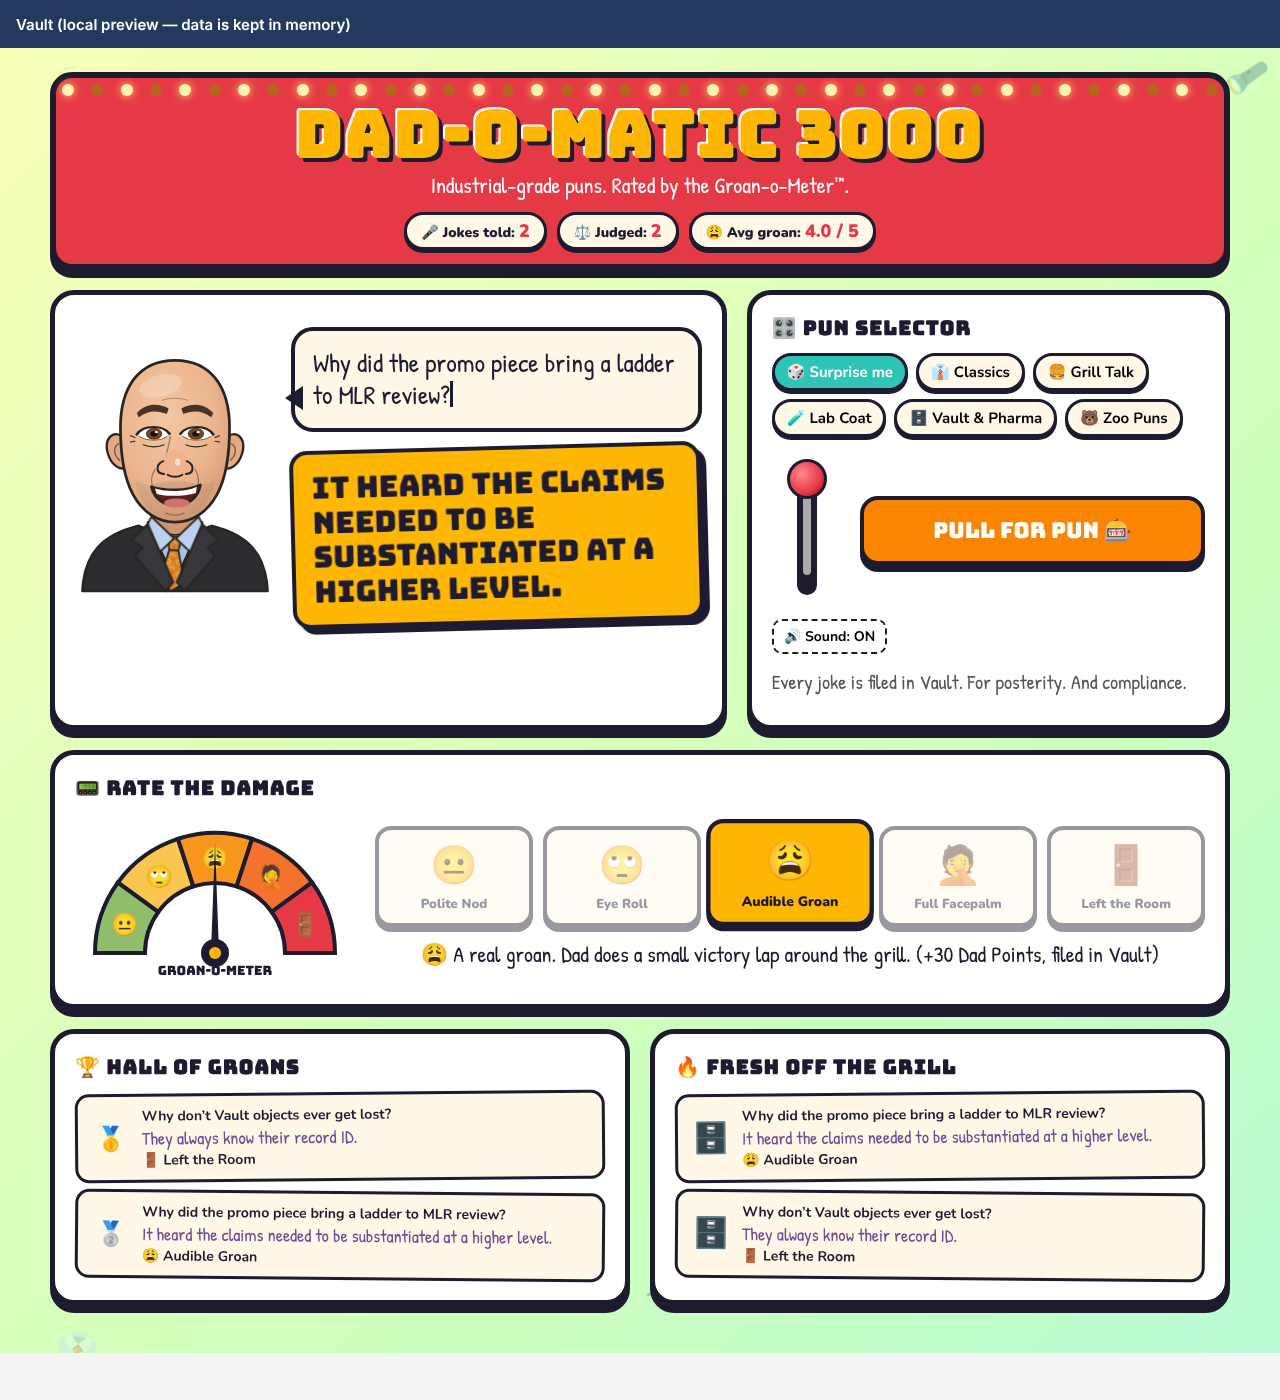
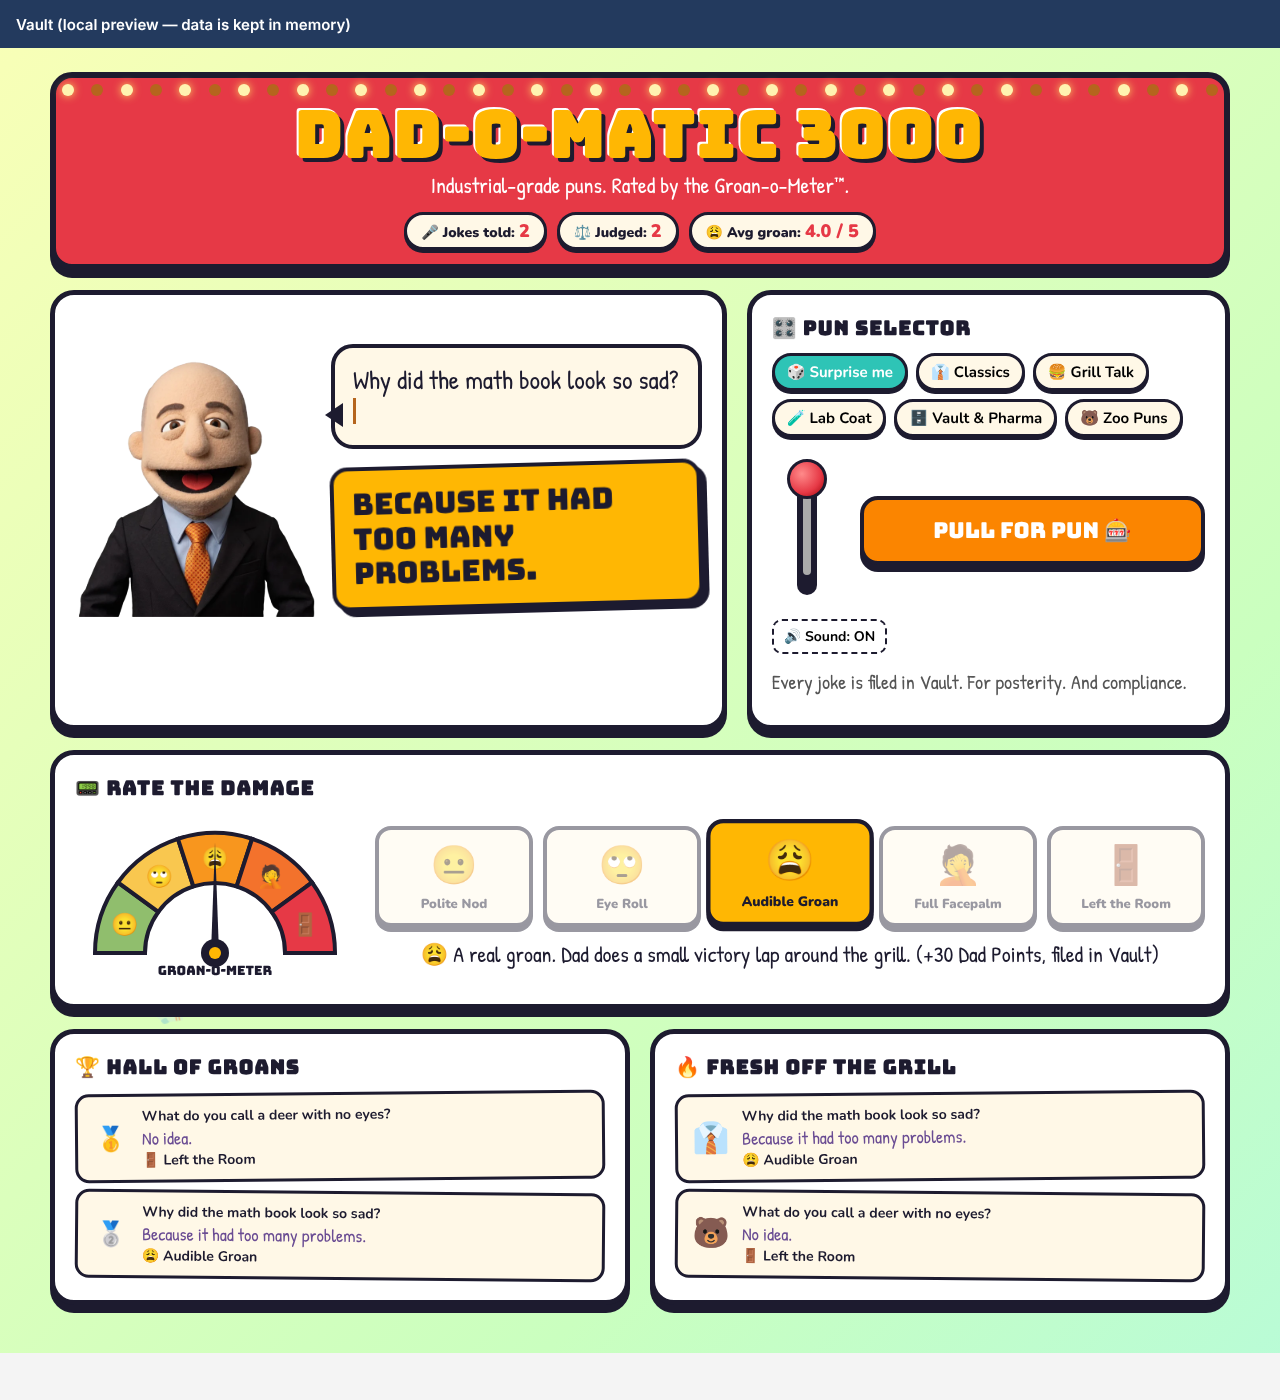
Use the puppet photos for Dad: rest, talk, grin and blink frames
Background keyed out by scripts/cutout.py and inlined as WebP data URLs.

Claude-Session: https://claude.ai/code/session_018wFN8Ge7w6gaALsTw1UWXu

diff --git a/client/src/dad.js b/client/src/dad.js
@@ -1,115 +1,24 @@
-// Dad, drawn in SVG in an outlined cartoon style. Classes on the parts are animated from styles.css.
-const INK = '#2a2420';
-const line = `stroke="${INK}" stroke-linecap="round" stroke-linejoin="round"`;
+// Dad, a felt puppet photographed in four expressions. The frames are identical apart from
+// the face, so they are stacked and swapped by styles.css. Inlined as data URLs by esbuild.
+import rest from '../assets/dad-rest.webp';
+import talk from '../assets/dad-talk.webp';
+import grin from '../assets/dad-grin.webp';
+import blink from '../assets/dad-blink.webp';
 
-export const DAD_SVG = `
-<svg class="dad" viewBox="0 0 220 262" aria-hidden="true">
-  <defs>
-    <radialGradient id="djg-skin" cx="42%" cy="34%" r="70%">
-      <stop offset="0" stop-color="#f5c7a2"/>
-      <stop offset=".65" stop-color="#ebb48d"/>
-      <stop offset="1" stop-color="#d69a74"/>
-    </radialGradient>
-    <pattern id="djg-tie" width="14" height="14" patternUnits="userSpaceOnUse">
-      <rect width="14" height="14" fill="#d9822a"/>
-      <path d="M2 7 C2 2 9 2 9 6 C9 9 5 9 5 7" stroke="#f4b64e" stroke-width="1.4" fill="none"/>
-      <path d="M8 13 C10 10 14 11 13 14" stroke="#f4b64e" stroke-width="1.2" fill="none"/>
-      <circle cx="12" cy="3" r="1" fill="#a9541c"/>
-    </pattern>
-    <clipPath id="djg-eye-l"><path d="M69 90 C75 76 97 76 103 90 C97 101 75 101 69 90 Z"/></clipPath>
-    <clipPath id="djg-eye-r"><path d="M151 90 C145 76 123 76 117 90 C123 101 145 101 151 90 Z"/></clipPath>
-  </defs>
+const FRAMES = { rest, talk, grin, blink };
 
-  <g class="dad-body">
-    <path d="M8 262 C10 220 30 200 70 190 L110 206 L150 190 C190 200 210 220 212 262 Z" fill="#2c2c30" ${line} stroke-width="2.5"/>
-    <path d="M80 186 L110 250 L140 186 Z" fill="#a9c0e6" ${line} stroke-width="2"/>
-    <path d="M86 160 L86 194 C98 202 122 202 134 194 L134 160 Z" fill="#d39570" ${line} stroke-width="2"/>
-  </g>
-
-  <g class="dad-head">
-    <path d="M53 92 C40 84 32 96 36 110 C40 124 50 130 58 126 Z" fill="#e5a983" ${line} stroke-width="2.5"/>
-    <path d="M48 100 C42 103 42 112 49 118" fill="none" ${line} stroke-width="1.5" opacity=".6"/>
-    <path d="M167 92 C180 84 188 96 184 110 C180 124 170 130 162 126 Z" fill="#e5a983" ${line} stroke-width="2.5"/>
-    <path d="M172 100 C178 103 178 112 171 118" fill="none" ${line} stroke-width="1.5" opacity=".6"/>
-
-    <path d="M110 8 C150 8 170 38 170 82 C170 112 166 138 156 156 C146 174 130 186 110 186 C90 186 74 174 64 156 C54 138 50 112 50 82 C50 38 70 8 110 8 Z" fill="url(#djg-skin)" ${line} stroke-width="3"/>
-    <ellipse cx="94" cy="36" rx="24" ry="12" fill="#fff" opacity=".22" transform="rotate(-15 94 36)"/>
-    <path d="M96 52 C104 49 116 49 124 52" fill="none" ${line} stroke-width="1.2" opacity=".35"/>
-
-    <path d="M66 140 C72 170 92 186 110 186 C128 186 148 170 154 140 C140 150 128 140 110 142 C92 140 80 150 66 140 Z" fill="#7d6a5f" opacity=".14"/>
-    <ellipse cx="110" cy="145" rx="22" ry="5" fill="#7d6a5f" opacity=".08"/>
-
-    <g class="dad-brows" fill="#4a3428">
-      <path d="M68 73 C78 62 92 62 103 68 L101 74 C90 70 80 70 70 78 Z"/>
-      <path d="M152 73 C142 62 128 62 117 68 L119 74 C130 70 140 70 150 78 Z"/>
-    </g>
-
-    <g class="dad-eye">
-      <path d="M69 90 C75 76 97 76 103 90 C97 101 75 101 69 90 Z" fill="#fff"/>
-      <g clip-path="url(#djg-eye-l)">
-        <circle cx="87" cy="89" r="8.5" fill="#7b4320" stroke="${INK}" stroke-width="1"/>
-        <circle cx="87" cy="89" r="4" fill="#140d0a"/>
-        <circle cx="89.5" cy="86.5" r="1.7" fill="#fff"/>
-      </g>
-      <path d="M68 90 C75 75 97 75 104 89" fill="none" ${line} stroke-width="3.2"/>
-      <path d="M71 93 C78 100 94 101 101 93" fill="none" ${line} stroke-width="1.2" opacity=".7"/>
-    </g>
-    <g class="dad-eye">
-      <path d="M151 90 C145 76 123 76 117 90 C123 101 145 101 151 90 Z" fill="#fff"/>
-      <g clip-path="url(#djg-eye-r)">
-        <circle cx="133" cy="89" r="8.5" fill="#7b4320" stroke="${INK}" stroke-width="1"/>
-        <circle cx="133" cy="89" r="4" fill="#140d0a"/>
-        <circle cx="135.5" cy="86.5" r="1.7" fill="#fff"/>
-      </g>
-      <path d="M152 90 C145 75 123 75 116 89" fill="none" ${line} stroke-width="3.2"/>
-      <path d="M149 93 C142 100 126 101 119 93" fill="none" ${line} stroke-width="1.2" opacity=".7"/>
-    </g>
-    <g class="dad-crinkle" fill="none" ${line} stroke-width="1.2">
-      <path d="M75 101 C82 104 92 104 98 101"/><path d="M122 101 C128 104 138 104 145 101"/>
-      <path d="M66 93 L61 91"/><path d="M66 97 L61 98"/>
-      <path d="M154 93 L159 91"/><path d="M154 97 L159 98"/>
-    </g>
-
-    <path d="M105 92 C103 103 101 110 99 116" fill="none" ${line} stroke-width="1.4" opacity=".45"/>
-    <path d="M98 114 C90 116 88 128 96 132 C100 136 120 136 124 132 C132 128 130 116 122 114 C118 104 102 104 98 114 Z" fill="#eeb48d"/>
-    <ellipse cx="113" cy="120" rx="3" ry="4" fill="#fff" opacity=".6"/>
-    <g fill="none" ${line} stroke-width="2.2">
-      <path d="M97 119 C88 123 89 133 98 133"/>
-      <path d="M123 119 C132 123 131 133 122 133"/>
-      <path d="M102 134 C106 137 114 137 118 134"/>
-    </g>
-    <g fill="none" ${line} stroke-width="1.3" opacity=".45">
-      <path d="M88 128 C82 138 84 147 88 152"/>
-      <path d="M132 128 C138 138 136 147 132 151"/>
-      <path d="M100 176 C106 179 114 179 120 176"/>
-    </g>
-
-    <g class="dad-mouth-smile">
-      <path d="M98 157 C106 162 116 162 124 156" fill="none" stroke="#c9786a" stroke-width="3" stroke-linecap="round"/>
-      <path d="M90 151 C100 159 120 159 132 149" fill="none" ${line} stroke-width="3"/>
-      <path d="M88 149 L91 154" fill="none" ${line} stroke-width="1.6"/>
-    </g>
-    <g class="dad-mouth-open">
-      <path d="M94 150 C102 147 120 147 128 150 C124 166 100 166 94 150 Z" fill="#5a1c1c" ${line} stroke-width="2.5"/>
-      <ellipse cx="111" cy="159" rx="9" ry="3.5" fill="#d0716b"/>
-    </g>
-    <g class="dad-mouth-grin">
-      <path d="M84 147 C100 152 122 152 138 145 C134 174 90 176 84 147 Z" fill="#5a1c1c" ${line} stroke-width="2.8"/>
-      <path d="M88 149 C100 153 122 153 134 147 L133 154 C120 158 100 158 90 155 Z" fill="#fff"/>
-      <ellipse cx="112" cy="165" rx="14" ry="5" fill="#d0716b"/>
-    </g>
-  </g>
-
-  <g class="dad-tie">
-    <path d="M102 202 L118 202 L115 217 L105 217 Z" fill="url(#djg-tie)" ${line} stroke-width="2"/>
-    <path d="M105 217 L115 217 L124 252 L110 262 L96 252 Z" fill="url(#djg-tie)" ${line} stroke-width="2"/>
-  </g>
-  <g class="dad-collar" fill="#bcd0ef" ${line} stroke-width="2">
-    <path d="M84 180 L109 204 L93 219 L77 194 Z"/>
-    <path d="M136 180 L111 204 L127 219 L143 194 Z"/>
-  </g>
-  <g fill="#36363b" ${line} stroke-width="2.2">
-    <path d="M80 188 L62 206 L74 214 L66 224 L100 262 L108 252 Z"/>
-    <path d="M140 188 L158 206 L146 214 L154 224 L120 262 L112 252 Z"/>
-  </g>
-</svg>`;
+export function createDad() {
+  const dad = document.createElement('div');
+  dad.className = 'dad';
+  dad.setAttribute('role', 'img');
+  dad.setAttribute('aria-label', 'Dad, a bald puppet in a suit and orange tie');
+  for (const [name, src] of Object.entries(FRAMES)) {
+    const img = document.createElement('img');
+    img.className = `dad-${name}`;
+    img.src = src;
+    img.alt = '';
+    img.draggable = false;
+    dad.appendChild(img);
+  }
+  return dad;
+}

diff --git a/client/src/styles.css b/client/src/styles.css
@@ -72,31 +72,22 @@
   box-shadow: 0 8px 0 var(--ink);
 }
 
-.djg-theatre { display: grid; grid-template-columns: 200px 1fr; gap: 16px; align-items: center; min-height: 320px; position: relative; }
+.djg-theatre { display: grid; grid-template-columns: 240px 1fr; gap: 16px; align-items: center; min-height: 320px; position: relative; }
 @media (max-width: 560px) { .djg-theatre { grid-template-columns: 1fr; justify-items: center; } }
 
-.dad { width: 200px; height: auto; overflow: visible; }
-.dad-head { transform-origin: 110px 185px; animation: djg-bob 2.4s ease-in-out infinite; }
-@keyframes djg-bob { 0%, 100% { transform: rotate(-2deg); } 50% { transform: rotate(2deg) translateY(-3px); } }
-.dad-eye { transform-box: fill-box; transform-origin: center; animation: djg-blink-eye 5s infinite; }
-@keyframes djg-blink-eye { 0%, 95%, 100% { transform: scaleY(1); } 97.5% { transform: scaleY(.1); } }
-/* Mouth: smirk at rest, flaps open while Dad talks, big grin with crinkled eyes on the punchline. */
-.dad-mouth-open, .dad-mouth-grin { opacity: 0; }
-.dad-crinkle { opacity: .5; transition: opacity .2s; }
-.djg.is-thinking .dad-mouth-open { animation: djg-flap .28s steps(1) infinite; }
-.djg.is-thinking .dad-mouth-smile { animation: djg-flap .28s steps(1) infinite reverse; }
+.dad { position: relative; width: 240px; aspect-ratio: 600 / 712; transform-origin: 50% 100%; animation: djg-bob 2.4s ease-in-out infinite; }
+.dad img { position: absolute; inset: 0; width: 100%; height: 100%; pointer-events: none; user-select: none; }
+@keyframes djg-bob { 0%, 100% { transform: rotate(-1.5deg); } 50% { transform: rotate(1.5deg) translateY(-3px); } }
+/* Frames stacked over the resting pose: talk flaps while the setup types, grin on the punchline, blink now and then. */
+.dad-talk, .dad-grin { opacity: 0; }
+.dad-blink { opacity: 0; animation: djg-blink-eye 5s steps(1) infinite; }
+@keyframes djg-blink-eye { 0%, 96% { opacity: 0; } 97% { opacity: 1; } 99% { opacity: 0; } }
+.djg.is-thinking .dad-talk { animation: djg-flap .26s steps(1) infinite; }
 @keyframes djg-flap { 0% { opacity: 0; } 50% { opacity: 1; } }
-.djg.is-thinking .dad-brows { animation: djg-brows .35s ease-in-out infinite alternate; }
-@keyframes djg-brows { to { transform: translateY(-6px); } }
-.djg.is-punchline .dad-mouth-smile { opacity: 0; }
-.djg.is-punchline .dad-mouth-grin { opacity: 1; }
-.djg.is-punchline .dad-crinkle { opacity: 1; }
-.djg.is-punchline .dad-eye { animation: none; transform: scaleY(.72); }
-.djg.is-punchline .dad-brows { transform: translateY(-7px); transition: transform .2s; }
-.djg.is-punchline .dad-head { animation: djg-laugh .15s ease-in-out 8 alternate; }
-@keyframes djg-laugh { to { transform: translateY(-6px) rotate(3deg); } }
-.dad-tie { transform-origin: 110px 198px; animation: djg-tie 3s ease-in-out infinite; }
-@keyframes djg-tie { 0%, 100% { transform: rotate(4deg); } 50% { transform: rotate(-4deg); } }
+.djg.is-punchline .dad-grin { opacity: 1; }
+.djg.is-punchline .dad-blink { animation: none; }
+.djg.is-punchline .dad { animation: djg-laugh .15s ease-in-out 8 alternate; }
+@keyframes djg-laugh { to { transform: translateY(-6px) rotate(2deg); } }
 
 .djg-bubbles { display: flex; flex-direction: column; gap: 14px; }
 .djg-bubble {

diff --git a/client/src/index.js b/client/src/index.js
@@ -1,6 +1,6 @@
 import { definePage } from '@veeva/vault';
 import css from './styles.css';
-import { DAD_SVG } from './dad.js';
+import { createDad } from './dad.js';
 import { CATEGORIES, GROAN_LEVELS, generateJoke, levelByKey, randomDadLine } from './jokes.js';
 import { drumroll, groan, rimshot } from './sound.js';
 import { loadHallOfGroans, rateJoke, saveJoke } from './vault.js';
@@ -140,8 +140,7 @@ export default definePage(({ element }) => {
   const drum = el('div', { class: 'djg-drumroll', text: '🥁 drrrrrrrrrrrr...' });
   const punch = el('div', { class: 'djg-punch' });
   const badum = el('div', { class: 'djg-badum', text: 'BA-DUM-TSS!' });
-  const dadHolder = el('div');
-  dadHolder.innerHTML = DAD_SVG;
+  const dadHolder = createDad();
   const theatre = el(
     'section',
     { class: 'djg-panel' },

diff --git a/scripts/cutout.py b/scripts/cutout.py
@@ -1,0 +1,46 @@
+"""Remove the baked-in checkerboard from the Dad photos and export web-ready WebPs.
+
+    python3 scripts/cutout.py <rest.jpg> <talk.jpg> <grin.jpg> <blink.jpg>
+
+The background is keyed out as the neutral, light region connected to the image border,
+so light parts of Dad (the blue shirt, eye whites) are kept.
+"""
+import sys
+import numpy as np
+from PIL import Image, ImageFilter
+from scipy import ndimage
+
+NAMES = ['dad-rest', 'dad-talk', 'dad-grin', 'dad-blink']
+WIDTH = 600
+
+
+def cutout(path):
+    rgb = np.asarray(Image.open(path).convert('RGB')).astype(np.int16)
+    spread = rgb.max(axis=2) - rgb.min(axis=2)
+    light = rgb.min(axis=2)
+    bg_like = (spread < 22) & (light > 165)
+    labels, _ = ndimage.label(bg_like)
+    border = np.unique(np.concatenate([labels[0], labels[-1], labels[:, 0], labels[:, -1]]))
+    bg = np.isin(labels, border[border > 0])
+    # Fill pinholes in Dad, pull the edge in past the JPEG fringe, then soften it.
+    fg = ndimage.binary_fill_holes(~bg)
+    fg = ndimage.binary_opening(fg, iterations=2)
+    fg = ndimage.binary_erosion(fg, iterations=2)
+    # Keep only the largest blob (drops stray smudges in the background).
+    lab, n = ndimage.label(fg)
+    if n > 1:
+        sizes = ndimage.sum(fg, lab, range(1, n + 1))
+        fg = lab == (1 + int(np.argmax(sizes)))
+    alpha = Image.fromarray((fg * 255).astype(np.uint8)).filter(ImageFilter.GaussianBlur(1.6))
+    im = Image.open(path).convert('RGB')
+    im.putalpha(alpha)
+    return im
+
+
+for name, path in zip(NAMES, sys.argv[1:5]):
+    im = cutout(path)
+    h = round(im.height * WIDTH / im.width)
+    im = im.resize((WIDTH, h), Image.LANCZOS)
+    out = f'client/assets/{name}.webp'
+    im.save(out, 'WEBP', quality=86, method=6)
+    print(out, im.size)

diff --git a/README.md b/README.md
@@ -6,7 +6,7 @@ A Veeva Vault **Custom Page** that generates dad jokes, stores every joke it tel
 
 ## What it does
 
-- **Pull the lever.** Dad types out the setup, a drum roll plays, then the punchline slams in with a *BA-DUM-TSS!*, a rimshot and emoji confetti. Dad winks and wiggles his mustache.
+- **Pull the lever.** Dad, a felt puppet, flaps his mouth while the setup types out, a drum roll plays, then the punchline slams in with a *BA-DUM-TSS!*, a rimshot and emoji confetti while Dad laughs. He blinks every few seconds.
 - **Pick a category.** Classics, Grill Talk, Lab Coat, Vault & Pharma, Zoo Puns, or Surprise me. Jokes already told aren't repeated until a category runs dry.
 - **Rate the damage.** In dad-joke land, the more it hurts the better:
 
@@ -32,7 +32,9 @@ There is no server code. The page is client code only, and it reads and writes V
 | `client/src/jokes.js` | Joke library, categories and the Groan-o-Meter levels |
 | `client/src/vault.js` | Vault API calls: create the joke, record the rating, VQL for the lists and stats |
 | `client/src/sound.js` | Drum roll, rimshot and groan, synthesised with Web Audio (no audio files) |
-| `client/src/dad.js` | Dad, as an SVG |
+| `client/src/dad.js` | Dad: four stacked photo frames (rest, talk, grin, blink) swapped by CSS |
+| `client/assets/` | The four Dad frames as transparent WebPs, inlined into the bundle |
+| `scripts/cutout.py` | Turns new Dad photos into those WebPs (keys out the background, resizes to 600px wide) |
 | `preview/index.html` | Local preview with a fake in-memory Vault API |
 
 ### The `dad_joke__c` object
@@ -70,3 +72,14 @@ cd .. && python3 -m http.server   # then open http://localhost:8000/preview/
 ```
 
 The preview stands in for Vault with an in-memory `dad_joke__c` table, so you can pull the lever without touching a Vault.
+
+### Replacing Dad
+
+Supply four photos that are identical apart from the face: rest (mouth closed), talk (mouth part open), grin (big laugh) and blink (eyes closed), same size and framing. Then:
+
+```sh
+pip install numpy pillow scipy
+python3 scripts/cutout.py rest.jpg talk.jpg grin.jpg blink.jpg   # writes client/assets/*.webp
+```
+
+The script expects a light, neutral background (white, light grey or a checkerboard).
